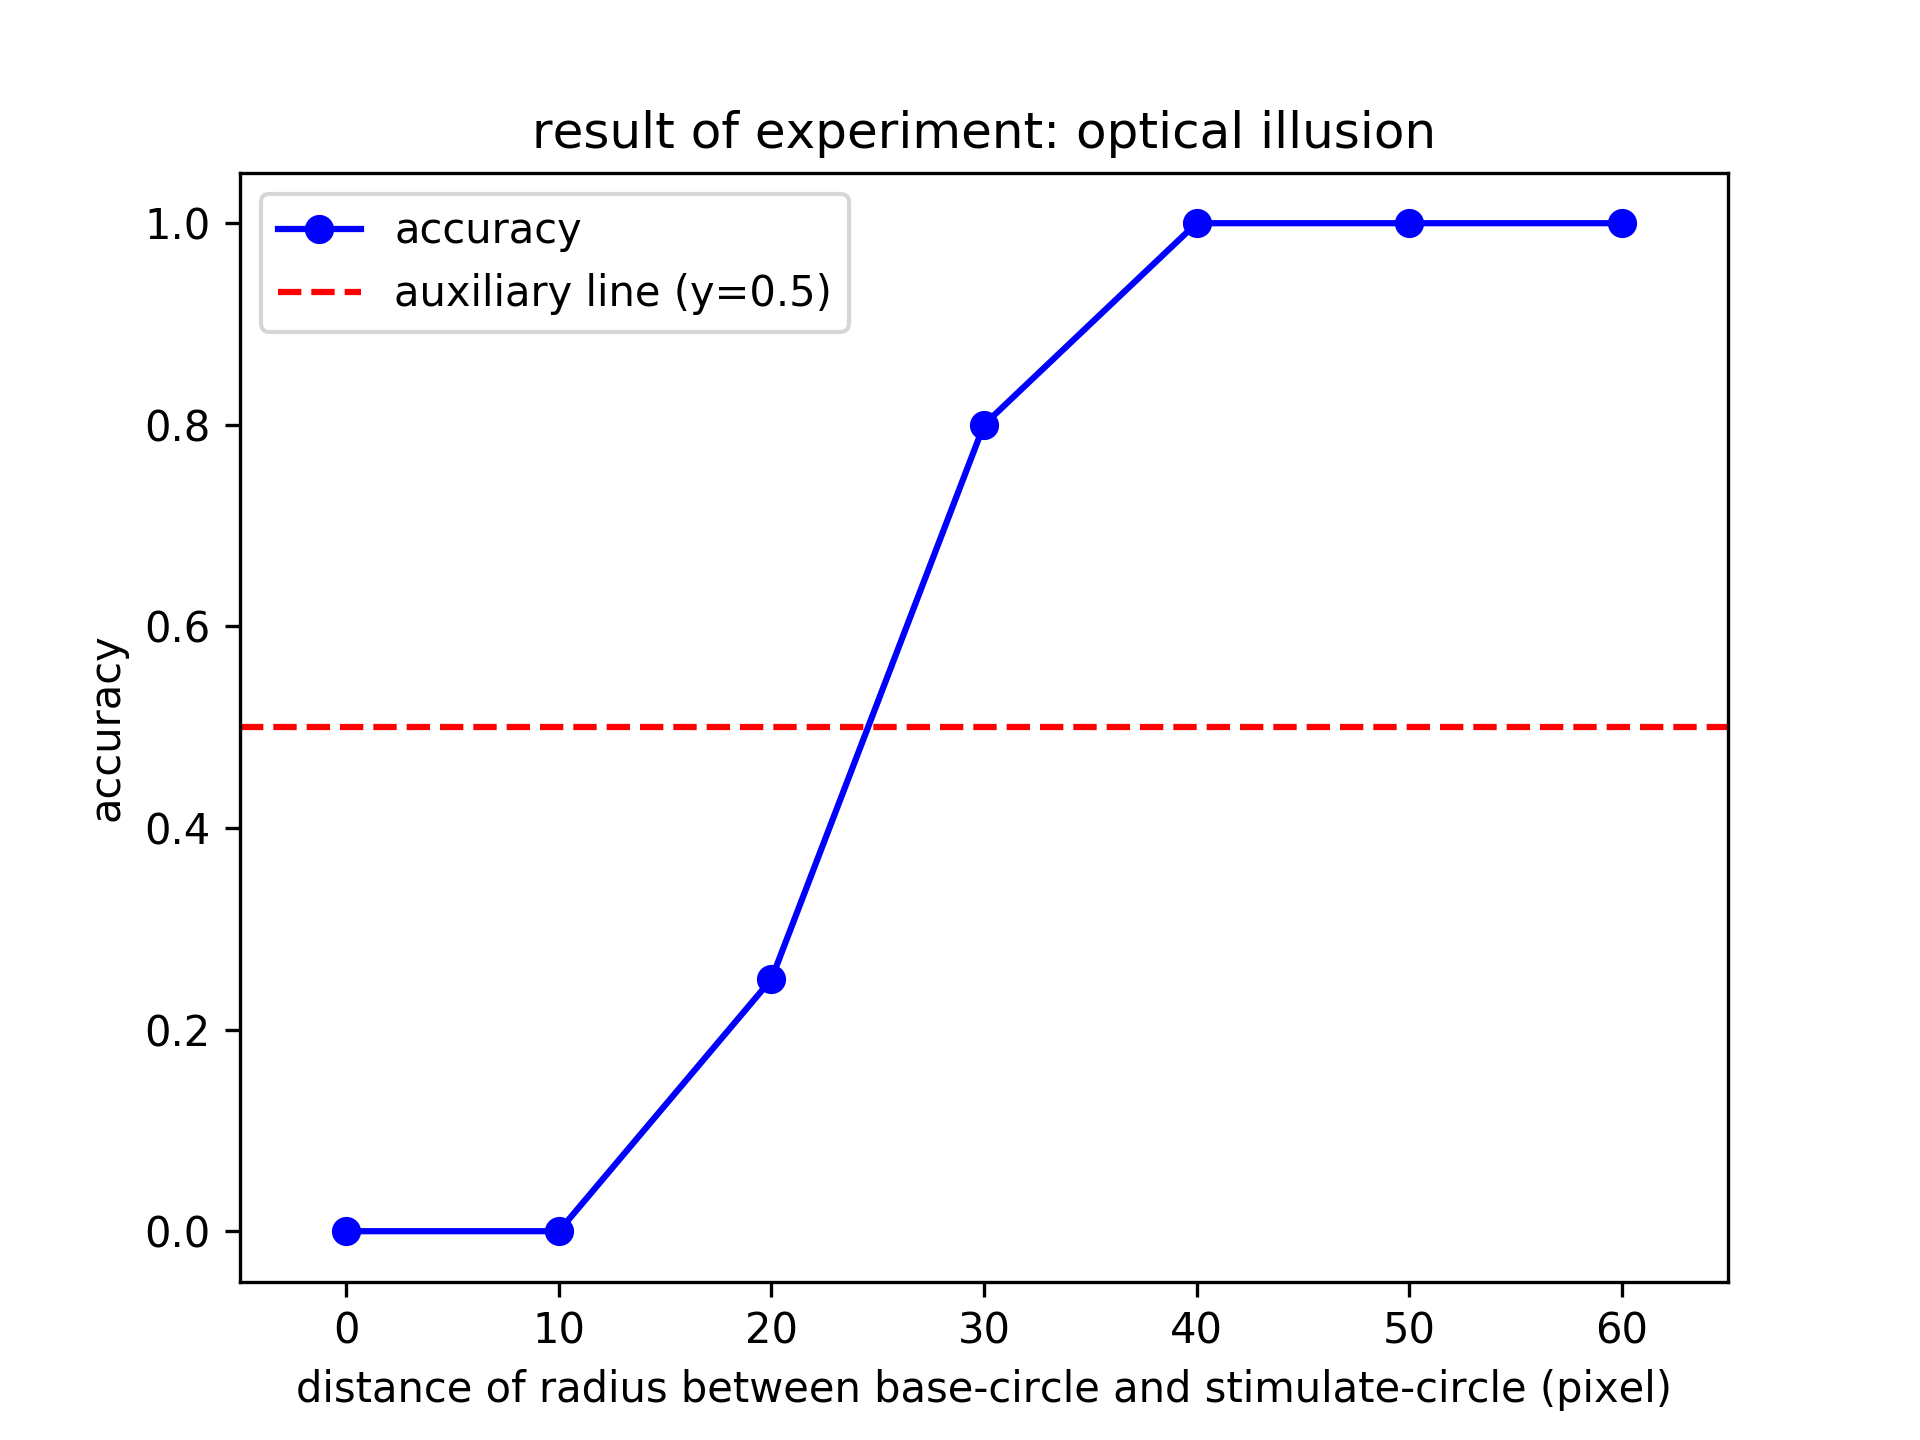
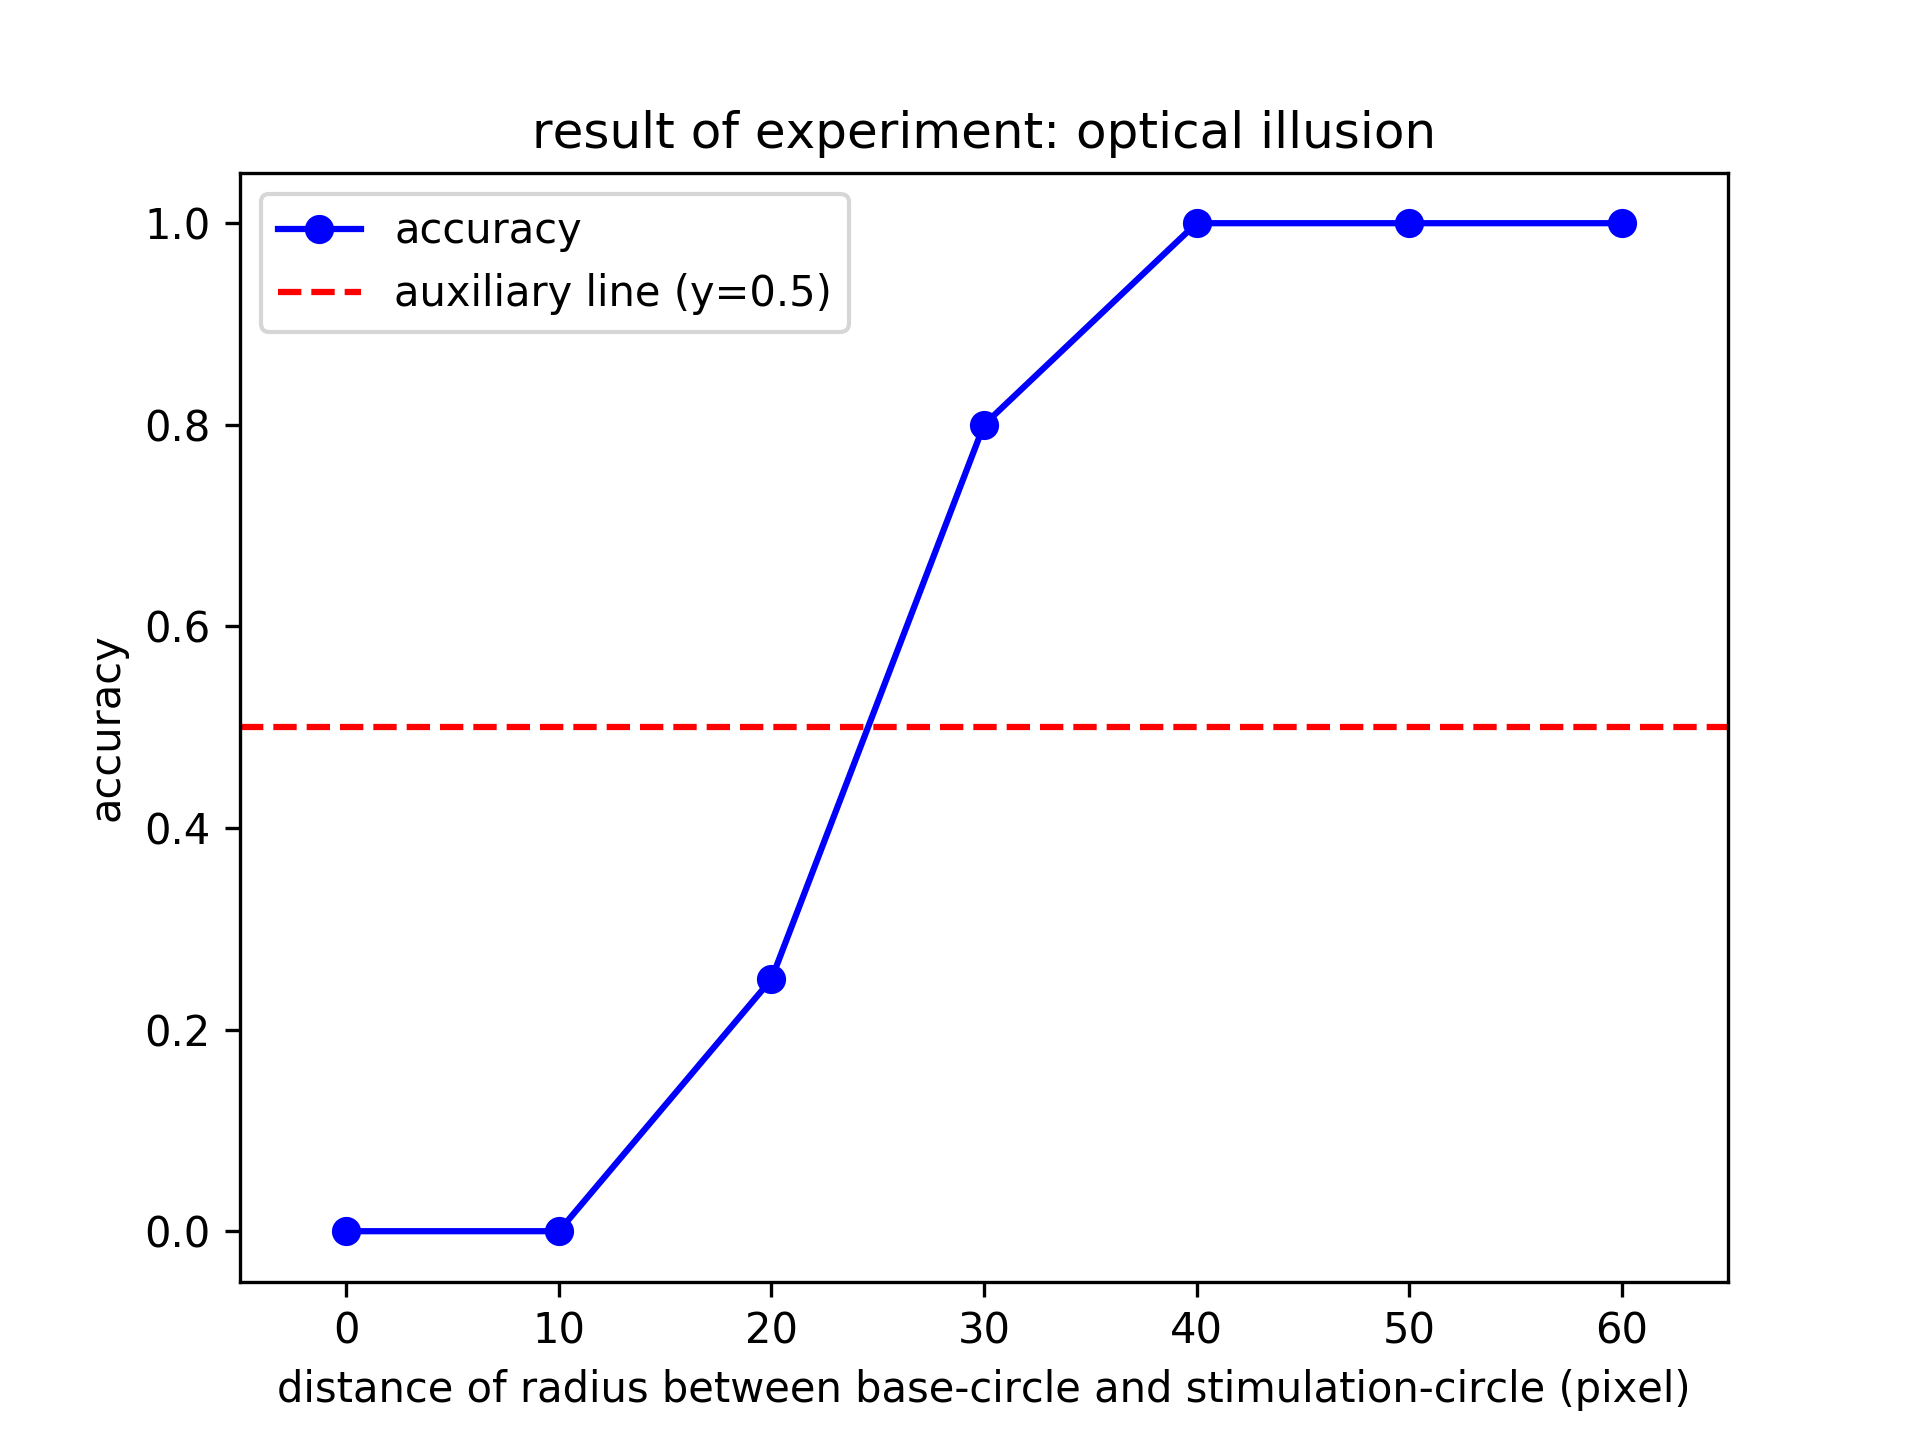
optical illusion

Changed region(s): [[0.1562, 0.9375, 0.875, 1.0]]

diff --git a/visual_information_2/graph.py b/visual_information_2/graph.py
@@ -3,9 +3,9 @@
 import numpy as np
 import matplotlib.pyplot as plt
 
-# distance of radius between base-circle and stimulate-circle (pixel)
+# distance of radius between base-circle and stimulation-circle (pixel)
 x = np.array([0, 10, 20, 30, 40, 50, 60], dtype=np.uint64)
-xlabel = "distance of radius between base-circle and stimulate-circle (pixel)"
+xlabel = "distance of radius between base-circle and stimulation-circle (pixel)"
 
 # accuracy
 y = np.array([0.00, 0.00, 0.25, 0.80, 1.00, 1.00, 1.00], dtype=np.float64)
@@ -16,12 +16,13 @@ title = "result of experiment: optical illusion"
 xmin = -5
 xmax = 65
 
+
 plt.figure()
 
 plt.plot(x, y, marker="o", color="blue", label="accuracy")
 
 # drawing auxiliary line: y=0.5
-plt.hlines([0.5], xmin, xmax, "red", linestyles='dashed', label="auxiliary line (y=0.5)")
+plt.hlines([0.5], xmin, xmax, color="red", linestyles='dashed', label="auxiliary line (y=0.5)")
 
 plt.xlabel(xlabel)
 plt.ylabel(ylabel)
